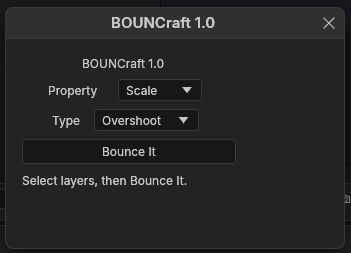
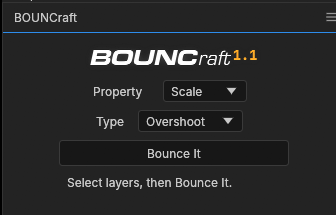
README: updated prints of install, Window menu and the 1.1 panel

diff --git a/README.md b/README.md
@@ -8,7 +8,7 @@ Select a layer, pick **Position**, **Scale** or **Rotation** (or **Selected** fo
 selected, including the Transform effect's), choose **Overshoot** or **Bounce Back**, and press
 **Bounce It**. BOUNCraft adds the expression and the controls to tweak it.
 
-<p align="center"><img src="images/panel.png" alt="The BOUNCraft panel" width="349"></p>
+<p align="center"><img src="images/panel.png" alt="The BOUNCraft panel" width="336"></p>
 
 *[Português abaixo](#português)*
 
@@ -19,7 +19,11 @@ selected, including the Transform effect's), choose **Overshoot** or **Bounce Ba
 
    <img src="images/install-menu.png" alt="File > Scripts > Install ScriptUI Panel..." width="440">
 
+   <img src="images/install-pick-file.png" alt="Picking BOUNCraft.jsx in the file dialog" width="560">
+
 3. Open it from the bottom of the **Window** menu (**Window ▸ BOUNCraft.jsx**). It docks like any panel.
+
+   <img src="images/window-menu.png" alt="Window > BOUNCraft.jsx" width="400">
 
 To try it without installing: **File ▸ Scripts ▸ Run Script File…** opens it as a floating window.
 
@@ -97,7 +101,12 @@ clique em **Bounce It**. O BOUNCraft coloca a expressão e os controles para aju
 2. No EffectCraft: **File ▸ Scripts ▸ Install ScriptUI Panel…** e escolha o `BOUNCraft.jsx`.
 
    <img src="images/install-menu.png" alt="File > Scripts > Install ScriptUI Panel..." width="440">
+
+   <img src="images/install-pick-file.png" alt="Escolhendo o BOUNCraft.jsx" width="560">
+
 3. Abra pelo fim do menu **Window** (**Window ▸ BOUNCraft.jsx**). Ele encaixa como qualquer painel.
+
+   <img src="images/window-menu.png" alt="Window > BOUNCraft.jsx" width="400">
 
 Para testar sem instalar: **File ▸ Scripts ▸ Run Script File…** abre como janela solta.
 
